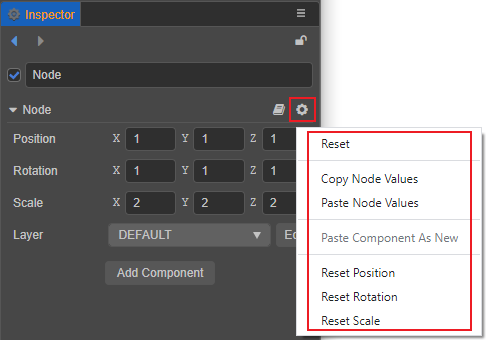
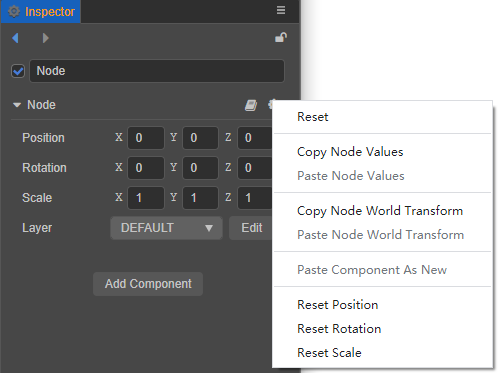
update  inspector docs

diff --git a/zh/editor/inspector/index.md b/zh/editor/inspector/index.md
@@ -31,7 +31,8 @@
 
 点击节点名称下方的 `Node` 可以将节点的属性折叠或展开。`Node` 右侧有帮助文档和节点设置按钮：
 - 帮助文档按钮可以跳转到节点相关的官方文档
-- 节点设置按钮可以重置节点属性、复制/粘贴节点的值，以及分别重置节点的 `Position`/`Rotation`/`Scale` 属性。
+- 节点设置按钮可以重置节点属性、复制/粘贴节点的值，以及分别重置节点的 `Position`/`Rotation`/`Scale`/`Layer` 属性。
+- 复制/粘贴节点的世界坐标，仅限于节点的 `worldPosition`/`worldRotation`/`worldScale` 属性。
 
     ![node-menu](index/node-menu.png)
 

diff --git a/en/editor/inspector/index.md b/en/editor/inspector/index.md
@@ -32,6 +32,7 @@ The Node checkbox indicates the node's enabled/disabled status. When unchecked, 
 Click `Node` below the node name to collapse or expand the node's properties. To the right of `Node` are the **Help Documentations** and **Node Settings** buttons.
 - The Help button jumps to the official documentation about the node.
 - The Node Settings button allows resetting the node properties, copy/paste the node values, and reset the `Position`/`Rotation`/`Scale` properties of the node respectively.
+- Copy/paste world transform, include `worldPosition`/`worldRotation`/`worldScale` property of the node.
 
     ![node-menu](index/node-menu.png)
 
